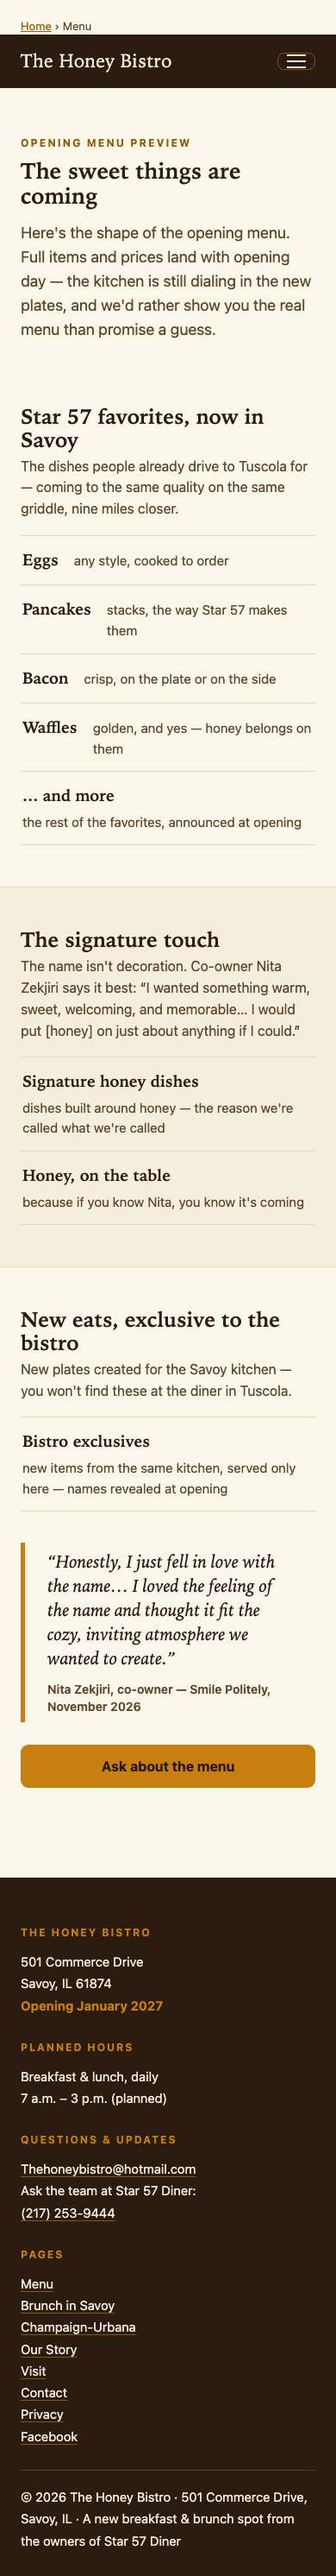
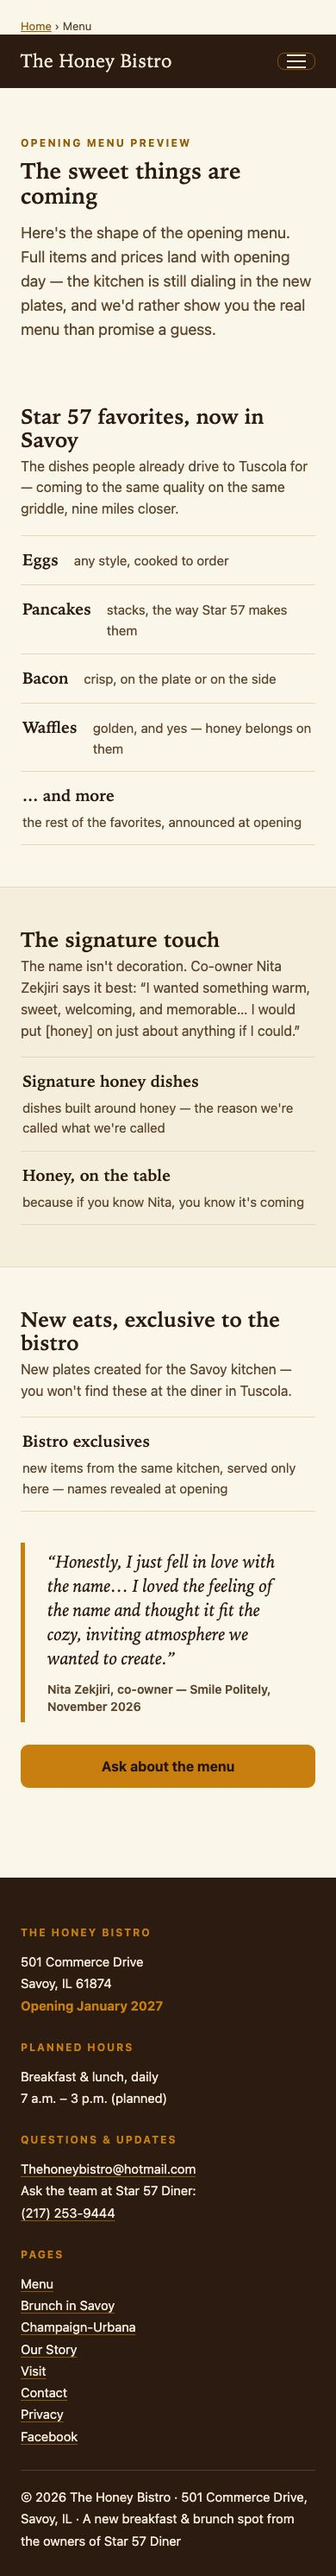
render-sweep evidence: 20 shots + DOM gates (2026-11-25)

Changed region(s): [[0.0615, 0.748, 0.0923, 0.7792]]

diff --git a/sweep.py b/sweep.py
@@ -79,8 +79,15 @@ async def main():
                 await asyncio.sleep(grace)
                 ev = await send("Runtime.evaluate", {"expression": GATE, "returnByValue": True})
                 gate = json.loads(ev["result"]["value"])
+                # explicit clip at layout content width — captureBeyondViewport without clip relayouts
+                # scrollbar-free (content +15px) but still clips at vw: fake "flush right edge" artifact
+                cap_h = max(int(gate["hs"]), 850)
+                # captureBeyondViewport relayouts scrollbar-free (1280) regardless of clip;
+                # clip at THAT layout width so the desktop right edge is truth, not a 15px crop.
+                cap_w = 1280 if not mobile else int(gate["vw"])
                 shot = await send("Page.captureScreenshot",
-                                  {"format": "jpeg", "quality": 62, "captureBeyondViewport": True})
+                                  {"format": "jpeg", "quality": 78, "captureBeyondViewport": True,
+                                   "clip": {"x": 0, "y": 0, "width": cap_w, "height": cap_h, "scale": 1}})
                 data = base64.b64decode(shot["data"])
                 vp = "d1280" if not mobile else "m390"
                 path = os.path.join(OUT, f"{PAGES.index(pg):02d}-{pg}-{vp}.jpg")
